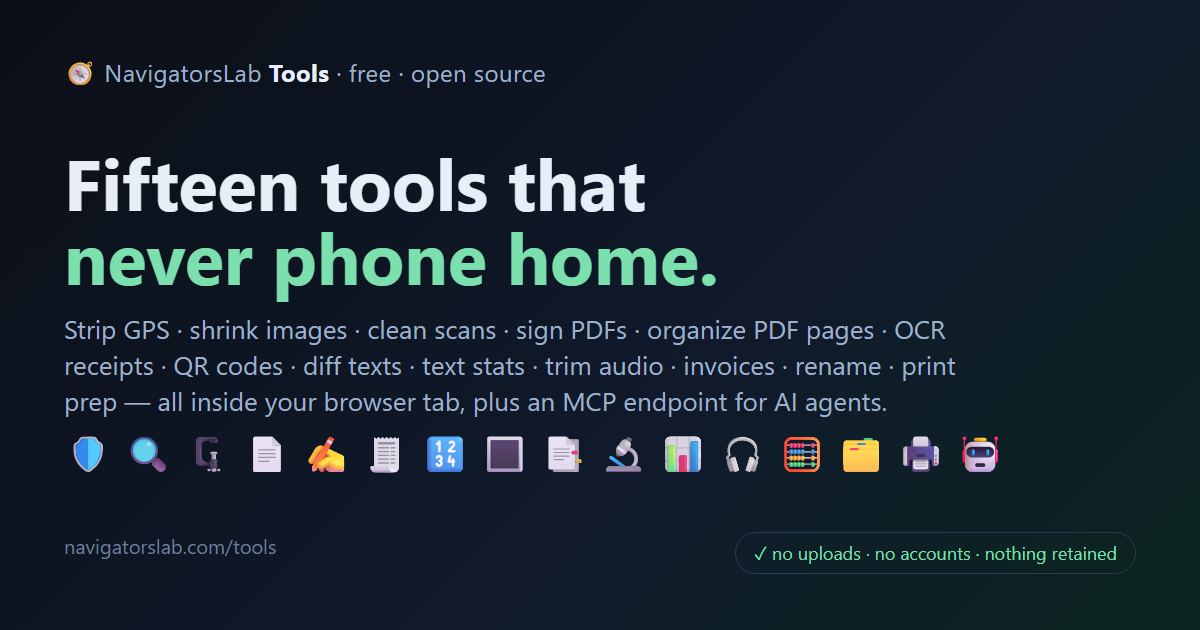
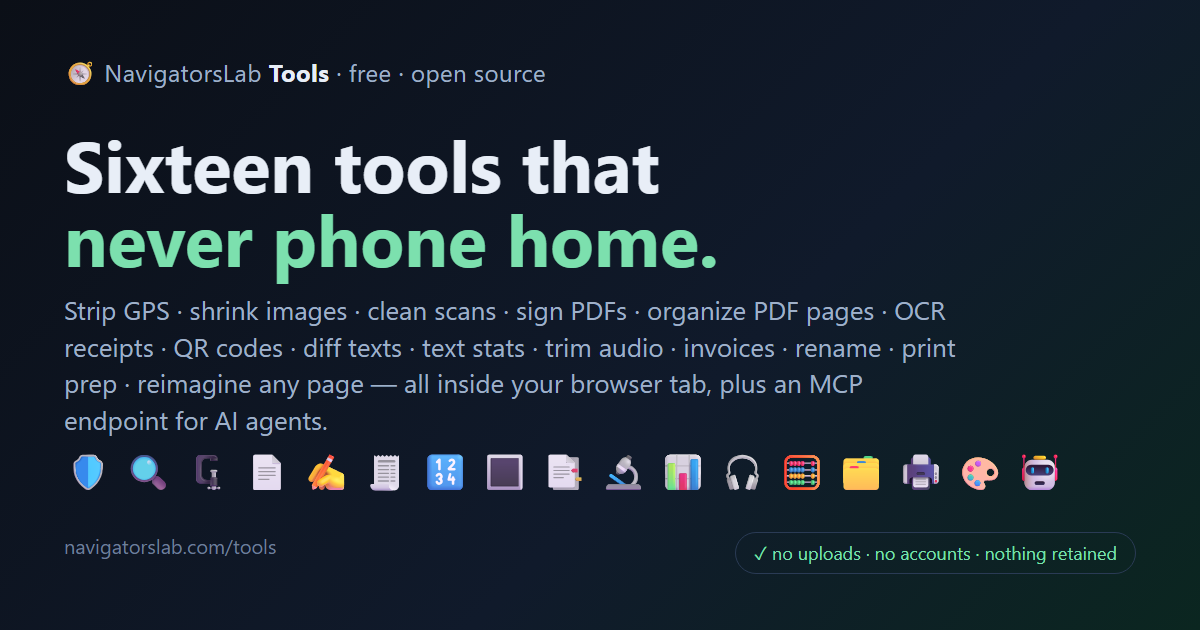
Status page: reimagine row + all-16 watch; suite OG image refresh
- update-status.py handles external tools (url in tools.json): probes the
  canonical /reimagine/ path plus the pretty and all-caps 301 variants
  instead of crashing on the missing PRETTY entry
- public/status.json regenerated against live production: 16/16 OK,
  allGood=true (previous snapshot caught the deploy race mid-flight)
- og-reimagine.png added (suite OG style); og-image.png banner refreshed
  with the sixteen-tool copy

Changed region(s): [[0.0308, 0.2111, 0.8942, 0.7841]]

diff --git a/scripts/update-status.py b/scripts/update-status.py
@@ -33,19 +33,20 @@ METHOD = {
 }
 DEFAULT_METHOD = 'route + headers'
 
-# tools served outside the hub (their tools.json entry carries its own URL)
+# External tools: no per-tool page in this repo; served at their own "url"
+# (a path on this domain, by another worker). Checked at that URL plus the
+# pretty (Capitalized) and all-caps 301 variants.
 EXTERNAL = {'reimagine'}
 
 
 def main() -> int:
+    import urllib.request
+
     def head(url: str) -> int:
-        # curl, not urllib: Cloudflare bot protection 403s python's TLS
-        # fingerprint even with a browser-like UA; curl passes everywhere.
+        req = urllib.request.Request(url, method='HEAD', headers={'User-Agent': 'nl-status/1.0'})
         try:
-            r = subprocess.run(
-                ['curl', '-s', '-o', os.devnull, '-w', '%{http_code}', '-I', '-A', 'nl-status/1.0', url],
-                capture_output=True, text=True, timeout=30)
-            return int((r.stdout or '0').strip() or 0)
+            with urllib.request.urlopen(req, timeout=20) as r:
+                return r.status
         except Exception:
             return 0
 
@@ -72,12 +73,18 @@ def main() -> int:
     for t in tools:
         tid = t['id']
         if tid in EXTERNAL:
+            # Canonical path must 200; the pretty (/Reimagine) and all-caps
+            # (/REIMAGINE) variants must resolve (200 or a redirect).
             page_ok = head(t['url']) == 200
-            ok = page_ok
+            pretty_ok = (head(f'https://navigatorslab.com/{tid.capitalize()}') in (200, 301, 302, 308)
+                         and head(f'https://navigatorslab.com/{tid.upper()}') in (200, 301, 302, 308))
+            method = 'route (3 case variants)'
+            ok = page_ok and pretty_ok
             all_good = all_good and ok
             rows.append({'id': tid, 'icon': t['icon'], 'name': t['name'],
-                         'href': t['url'], 'prettyUrl': t['url'],
-                         'method': 'route', 'verifiedAt': now, 'ok': ok})
+                         'href': '../reimagine/', 'prettyUrl': t['url'],
+                         'method': method, 'verifiedAt': now,
+                         'ok': ok})
             continue
         page_ok = head(f'{BASE}/{tid}.html') == 200
         pretty_ok = head(f'https://navigatorslab.com{PRETTY[tid]}') in (200, 301, 302, 308)
@@ -92,17 +99,7 @@ def main() -> int:
     out = {'generatedAt': now, 'allGood': all_good, 'tools': rows, 'probes': probes}
     io.open(ROOT / 'public' / 'status.json', 'w', encoding='utf-8', newline='').write(
         json.dumps(out, indent=2, ensure_ascii=False))
-
-    # 3) shields.io endpoint badges — one per tool, consumed by the per-tool
-    #    repo READMEs (https://img.shields.io/endpoint?url=.../badge-<id>.json)
-    day = now[:10]
-    for r in rows:
-        badge = {'schemaVersion': 1, 'label': 'live check',
-                 'message': ('passing · ' + day) if r['ok'] else 'failing',
-                 'color': 'brightgreen' if r['ok'] else 'red'}
-        io.open(ROOT / 'public' / f"badge-{r['id']}.json", 'w', encoding='utf-8', newline='').write(
-            json.dumps(badge, ensure_ascii=False))
-    print('status.json + %d badges written —' % len(rows), 'ALL GOOD' if all_good else 'FAILURES PRESENT')
+    print('status.json written —', 'ALL GOOD' if all_good else 'FAILURES PRESENT')
     return 0 if all_good else 1
 
 
